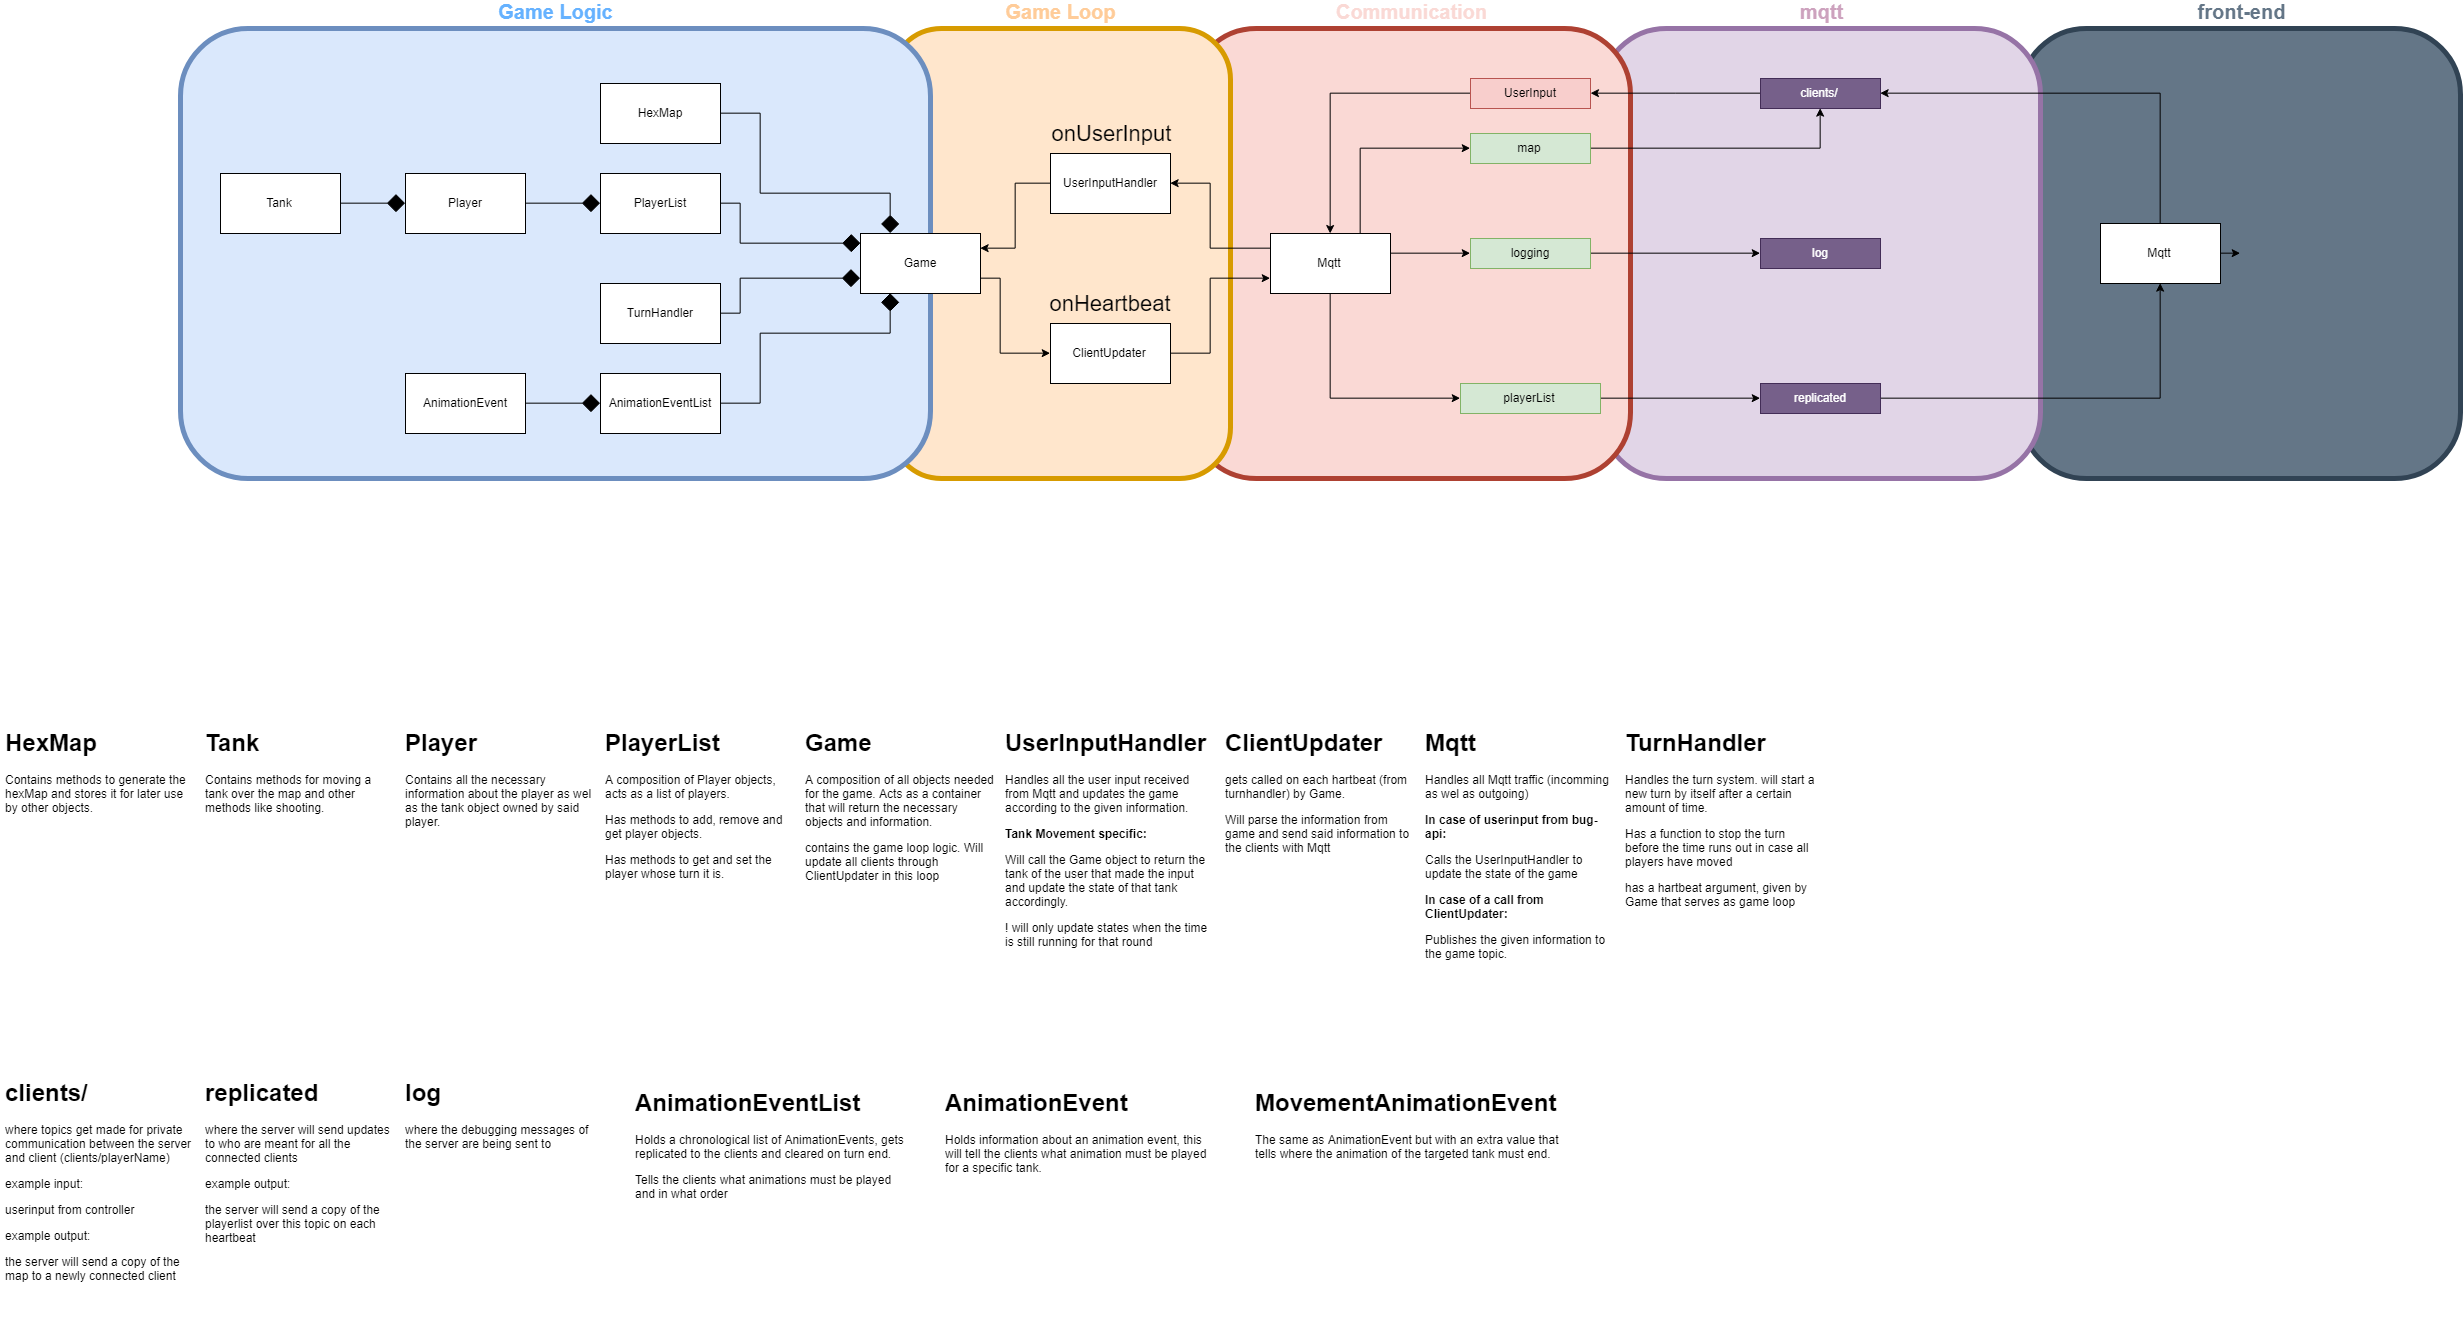
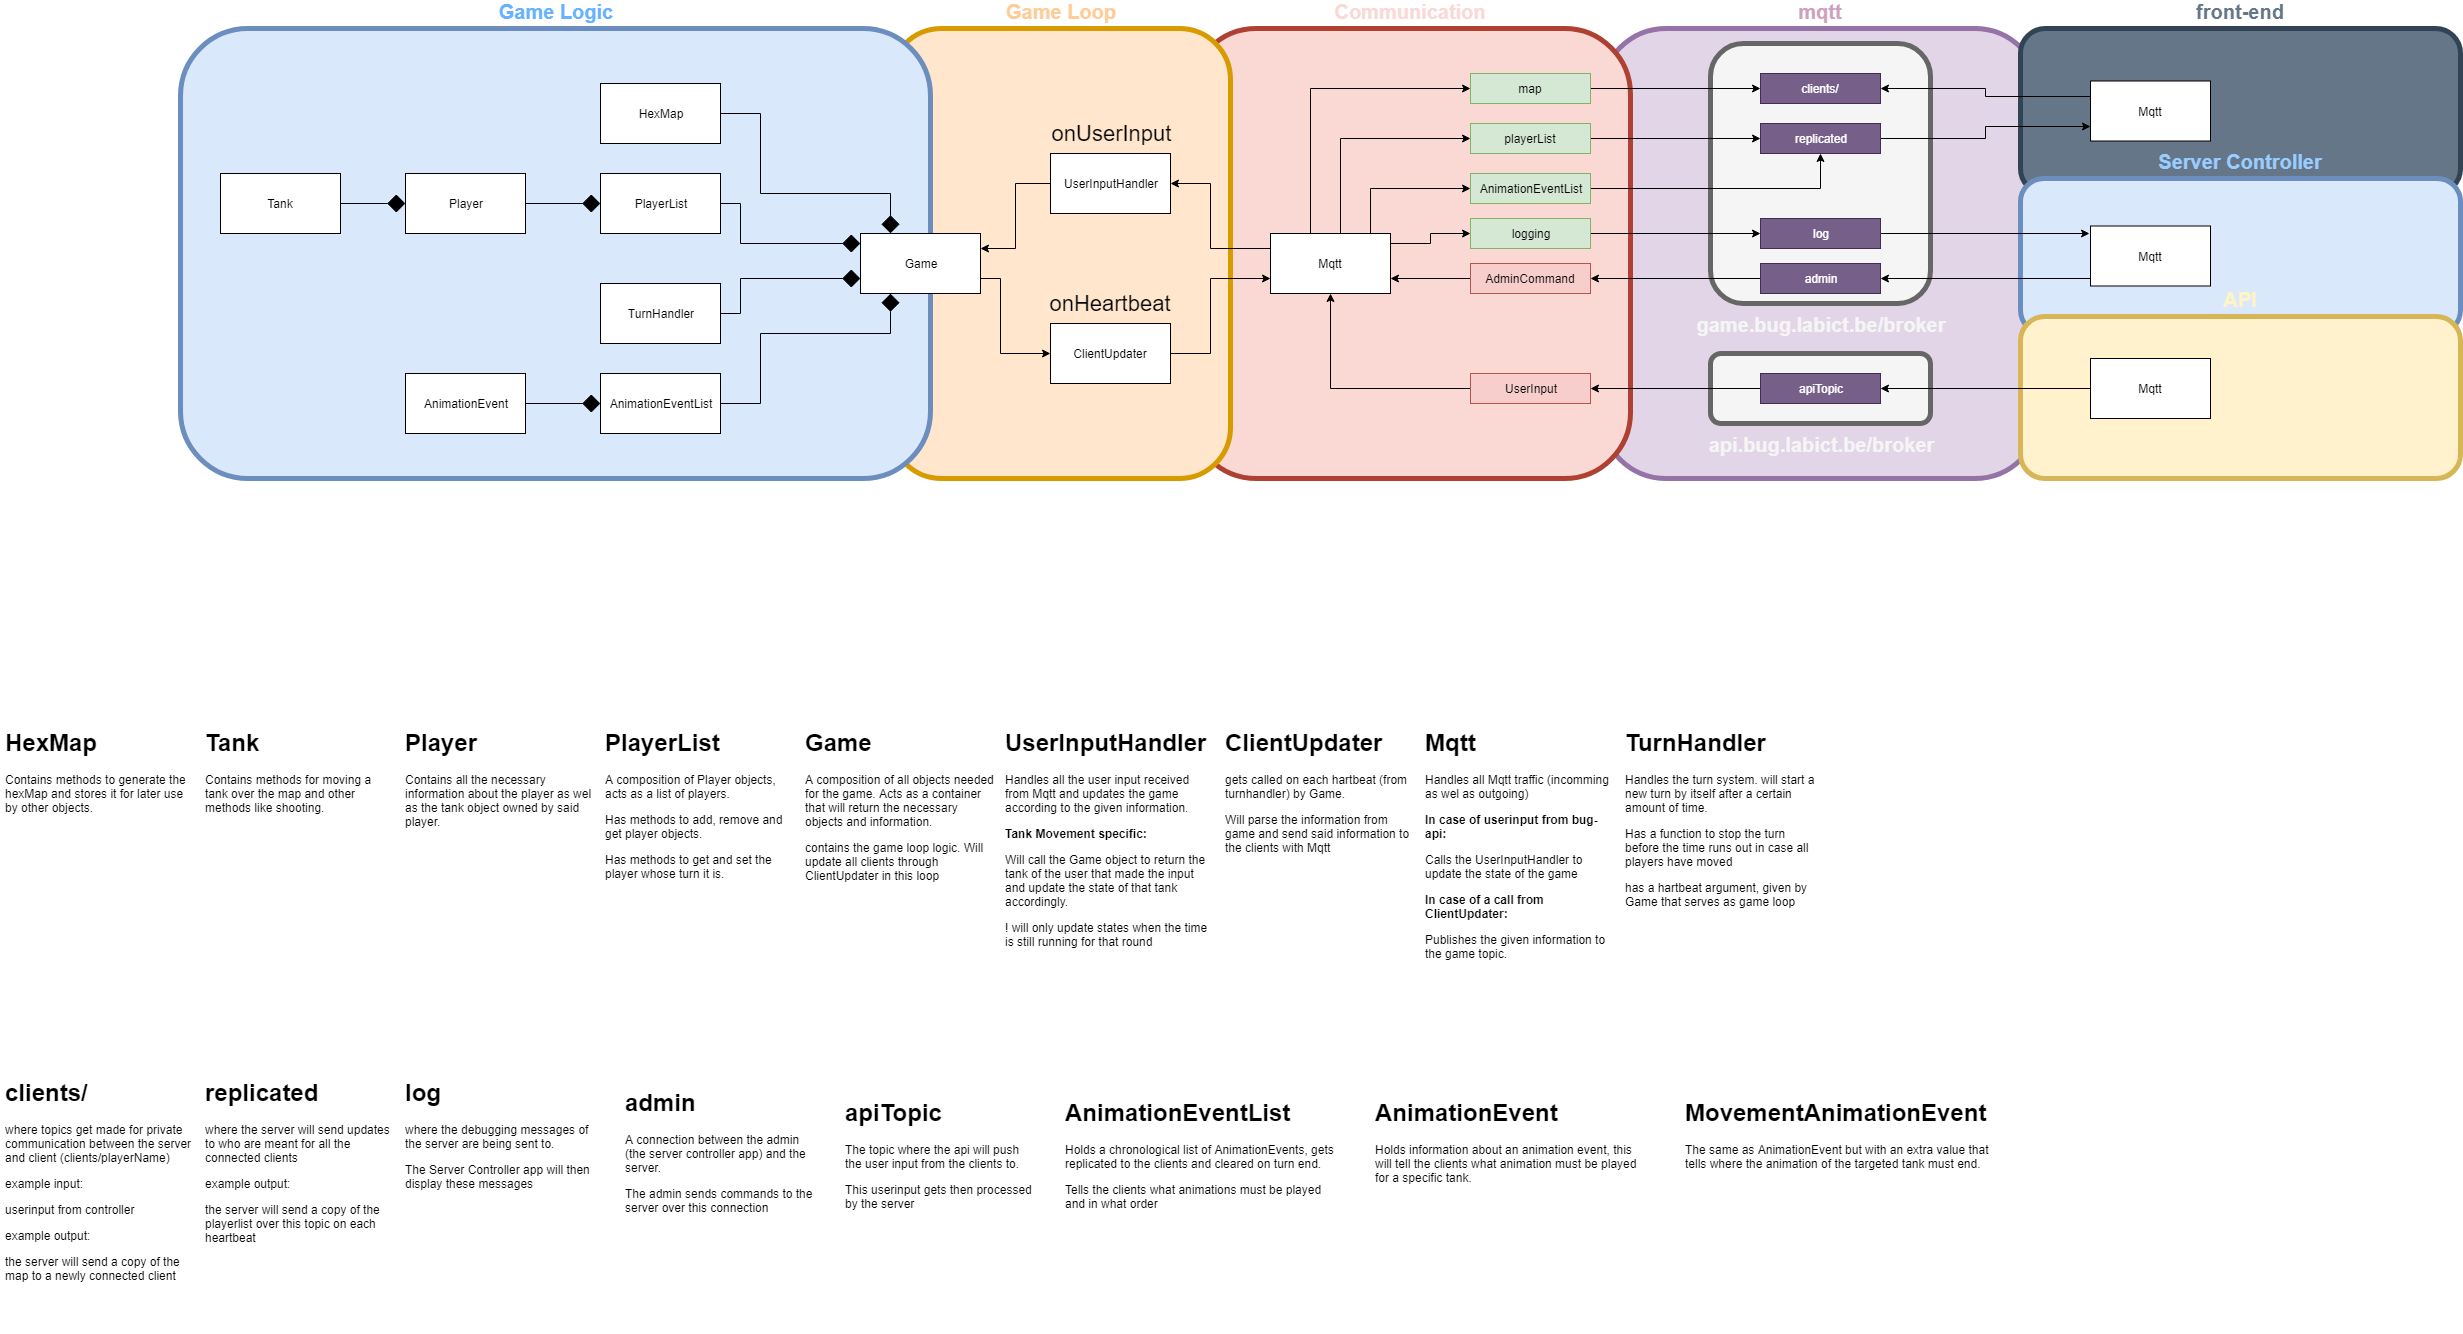
updated server documentation

diff --git a/README.md b/README.md
@@ -44,9 +44,14 @@ The movement input of the first packet will be ignored while the server is addin
 To configure enviroment variables, place a .env file inside the root directory of the server. An example configuration could look like this:
 ```
 #MQTT settings
-BROKER=mqtt://labict.be
-MAIN_TOPIC=game3
-PORT=1884
+GAME_BROKER=wss://game.bug.labict.be/broker
+GAME_TOPIC=game64
+
+API_BROKER=wss://api.bug.labict.be/broker
+API_TOPIC=game64
+
+#Local backup broker port
+PORT=443
 
 #map settings
 WIDTH=22
